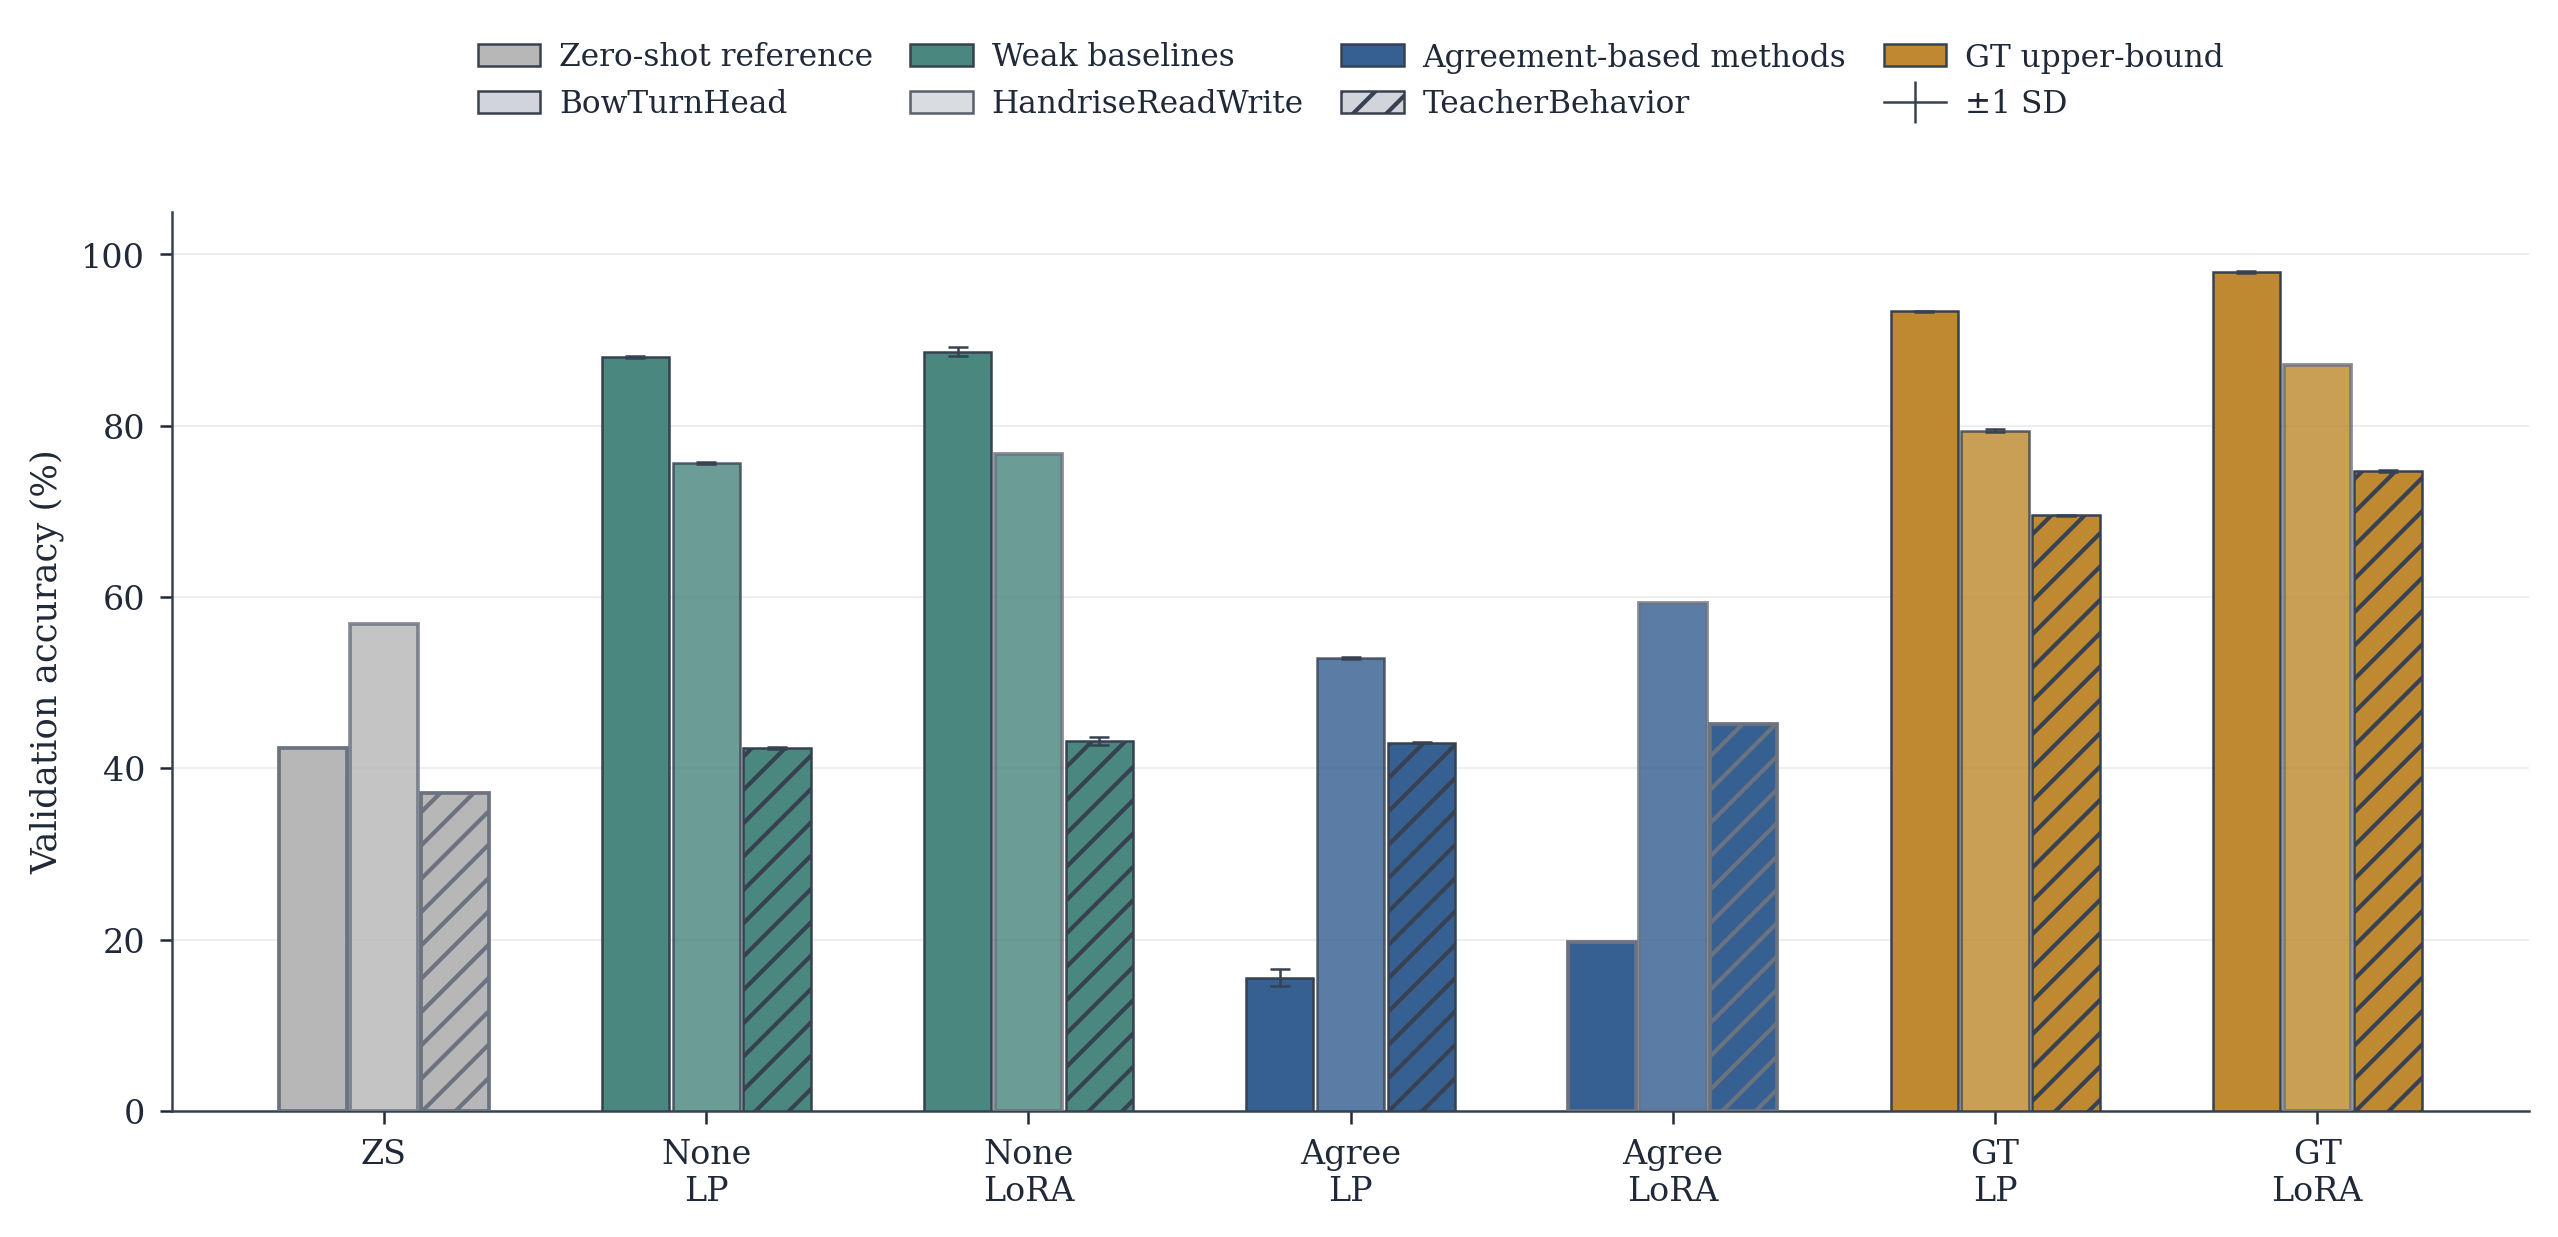
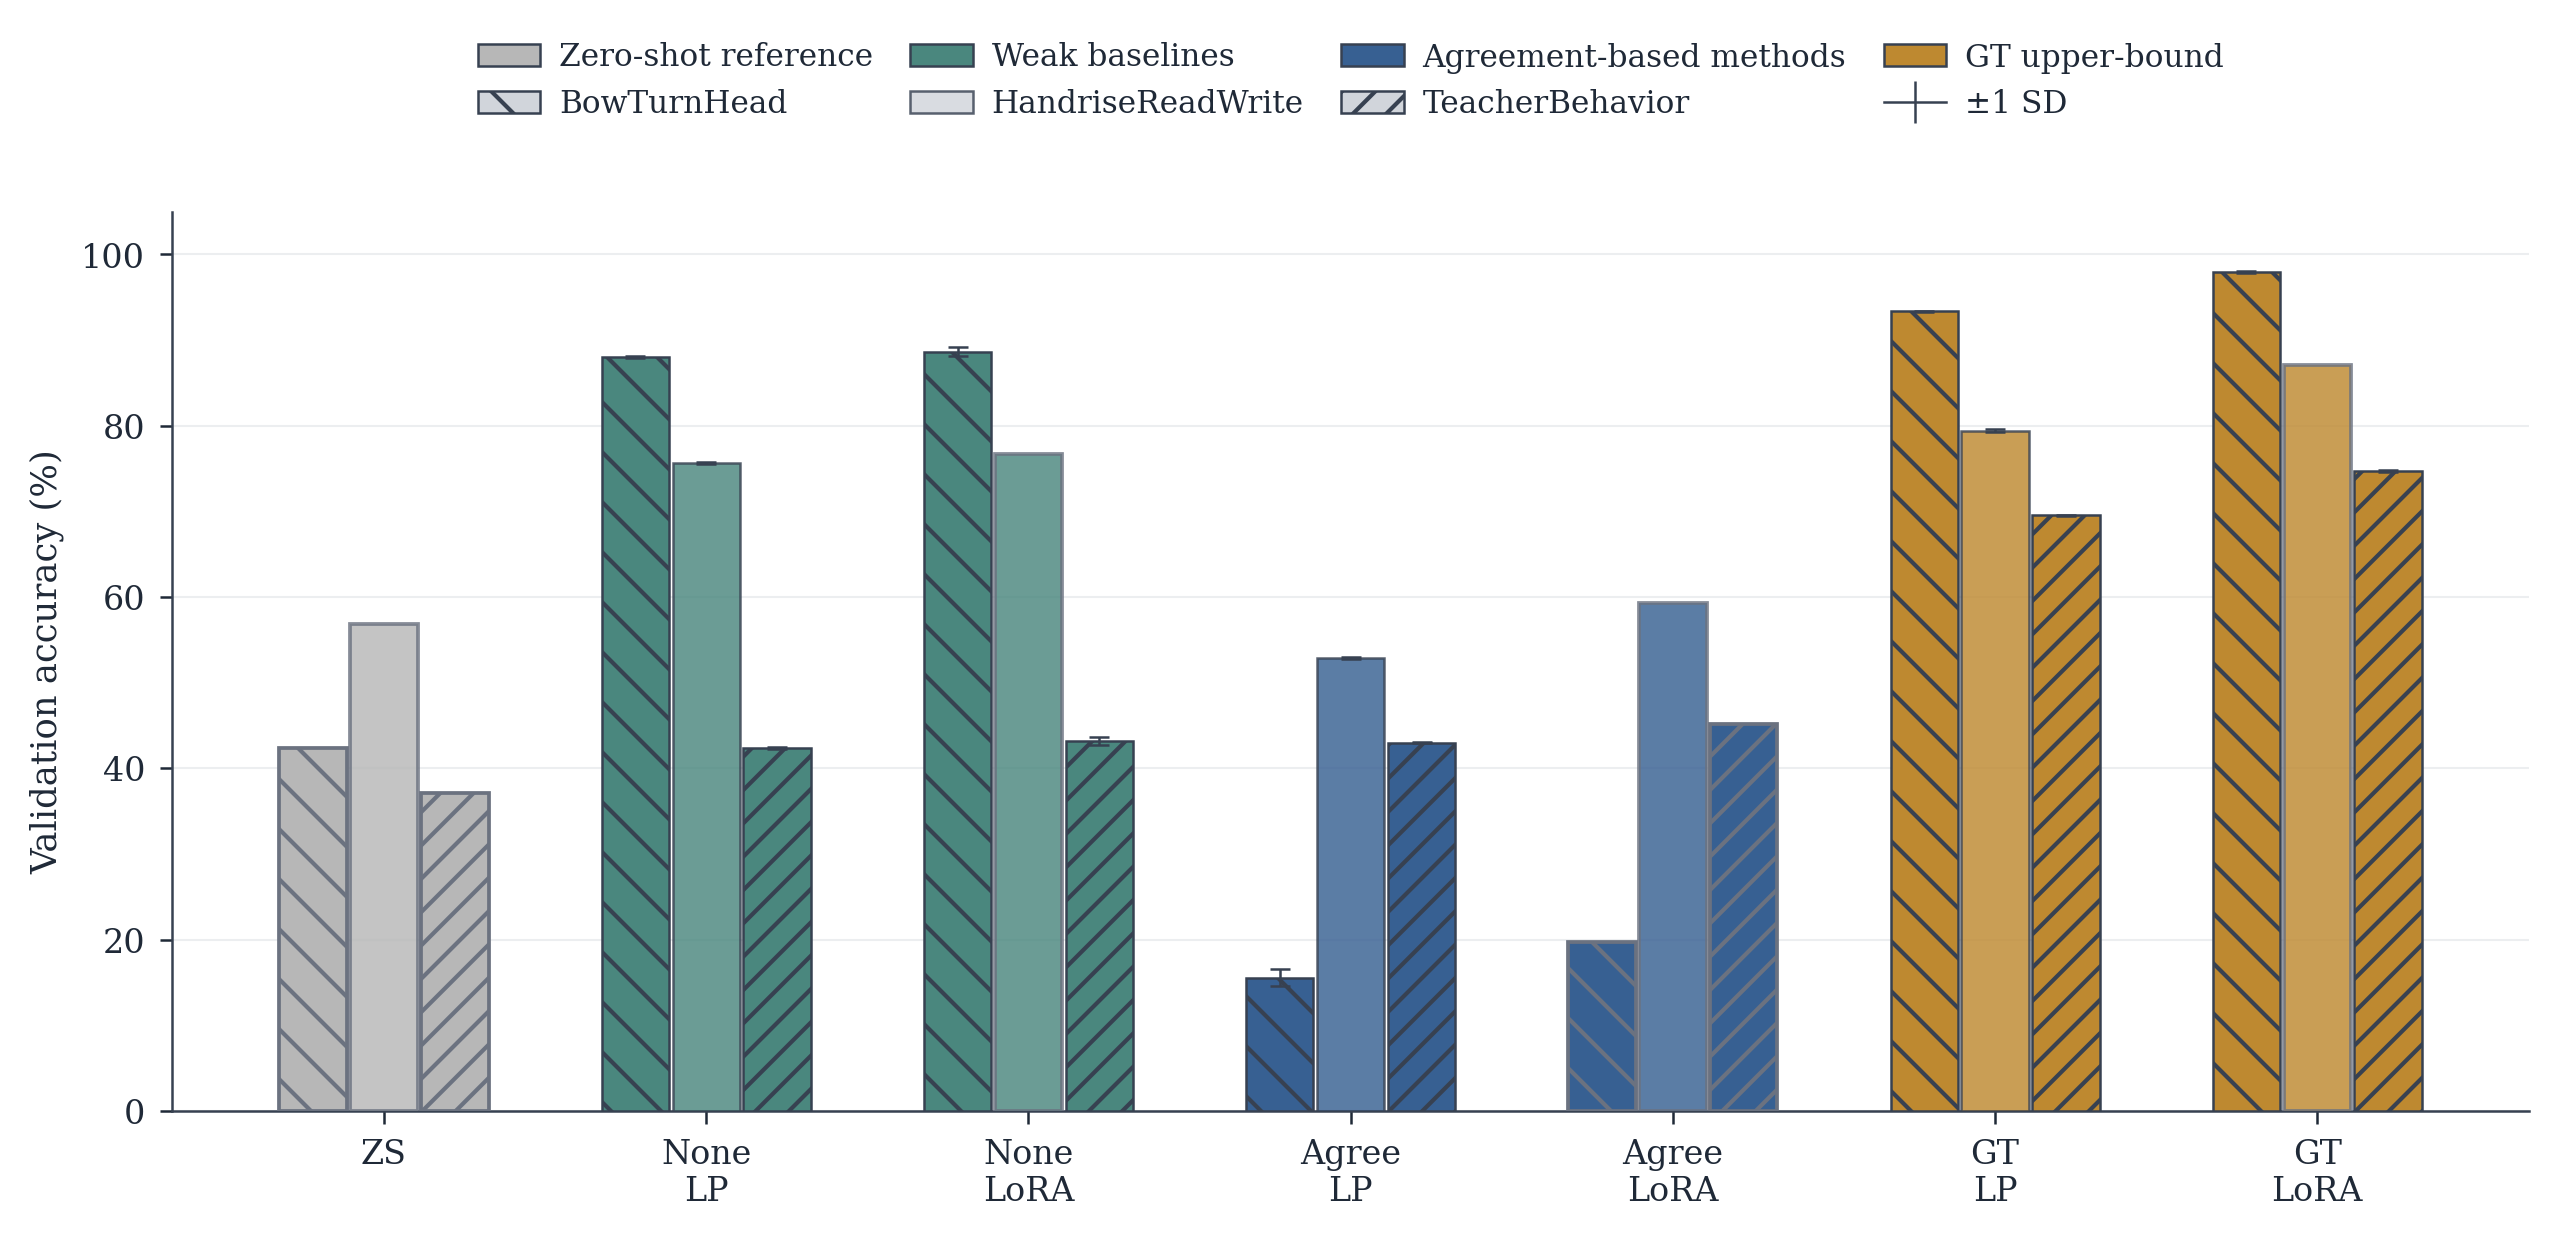
Figure 4: BowTurnHead gets backslash hatch, distinct from HandriseReadWrite solid
Three datasets now visually distinct: \ (BowTurnHead), solid/alpha (HandriseReadWrite), /// (TeacherBehavior)

diff --git a/paper/generate_evidence_figures.py b/paper/generate_evidence_figures.py
@@ -107,7 +107,7 @@ CONDITION_COLORS = {
 }
 
 DATASET_STYLES = {
-    "BowTurnHead": {"alpha": 1.0, "hatch": None},
+    "BowTurnHead": {"alpha": 1.0, "hatch": "\\\\"},
     "HandriseReadWrite": {"alpha": 0.82, "hatch": None},
     "TeacherBehavior": {"alpha": 1.0, "hatch": "///"},
 }
@@ -269,7 +269,7 @@ def generate_overview_figure() -> None:
     # to get row-major display: Row1=color labels, Row2=dataset labels
     legend_handles = [
         Patch(facecolor=NEUTRAL_FILL_COLOR, edgecolor=EDGE_COLOR, linewidth=0.6, label="Zero-shot reference"),
-        Patch(facecolor="#D1D5DB", edgecolor=EDGE_COLOR, linewidth=0.6, label="BowTurnHead"),
+        Patch(facecolor="#D1D5DB", edgecolor=EDGE_COLOR, hatch="\\\\", linewidth=0.6, label="BowTurnHead"),
         Patch(facecolor=SECONDARY_TEAL, edgecolor=EDGE_COLOR, linewidth=0.6, label="Weak baselines"),
         Patch(facecolor="#D1D5DB", edgecolor=EDGE_COLOR, linewidth=0.6, alpha=0.82, label="HandriseReadWrite"),
         Patch(facecolor=PRIMARY_BLUE, edgecolor=EDGE_COLOR, linewidth=0.6, label="Agreement-based methods"),